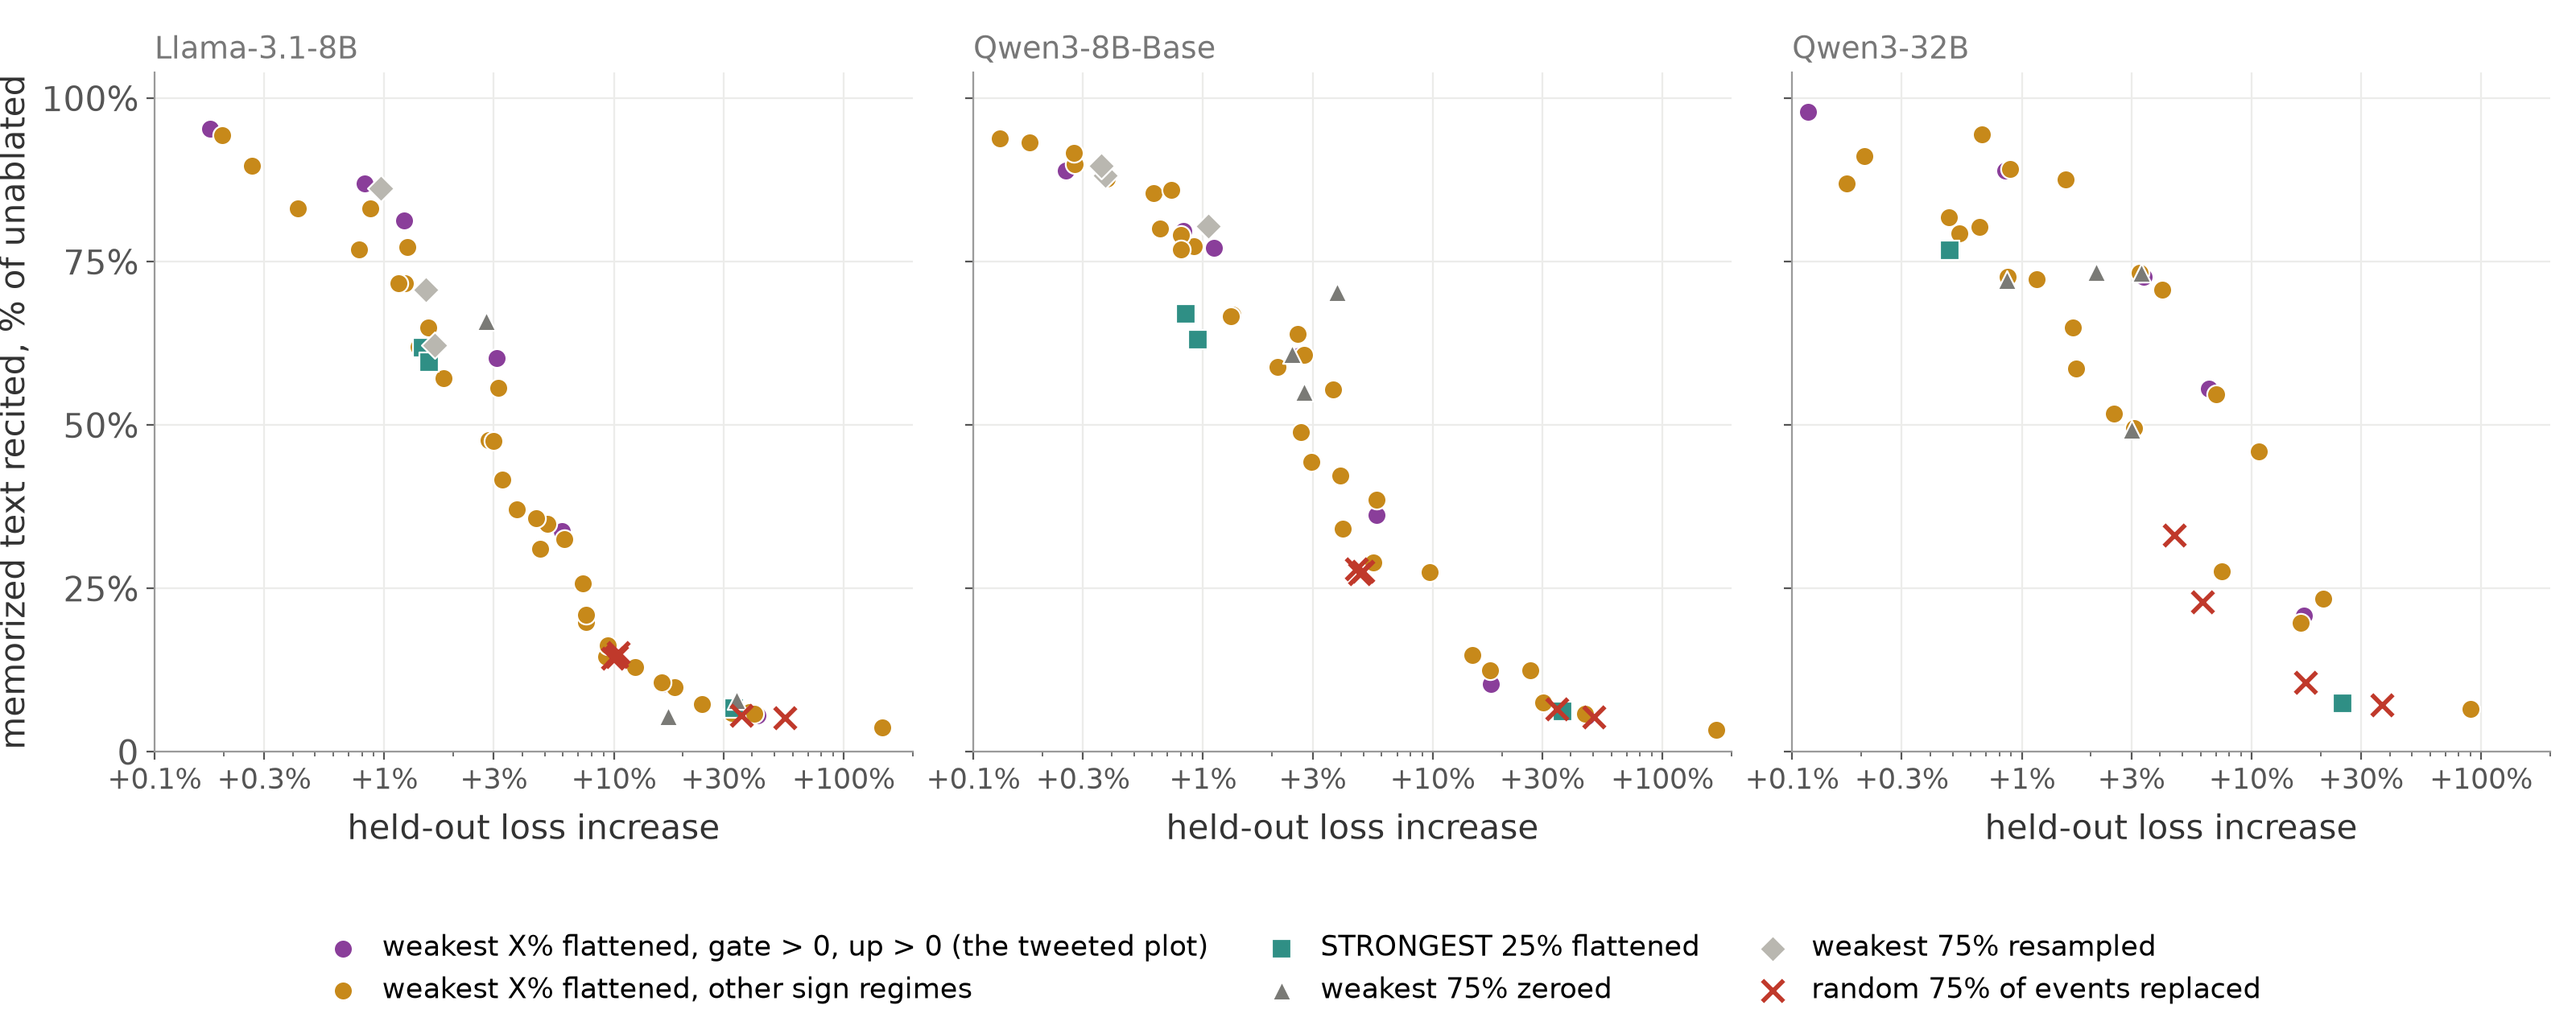
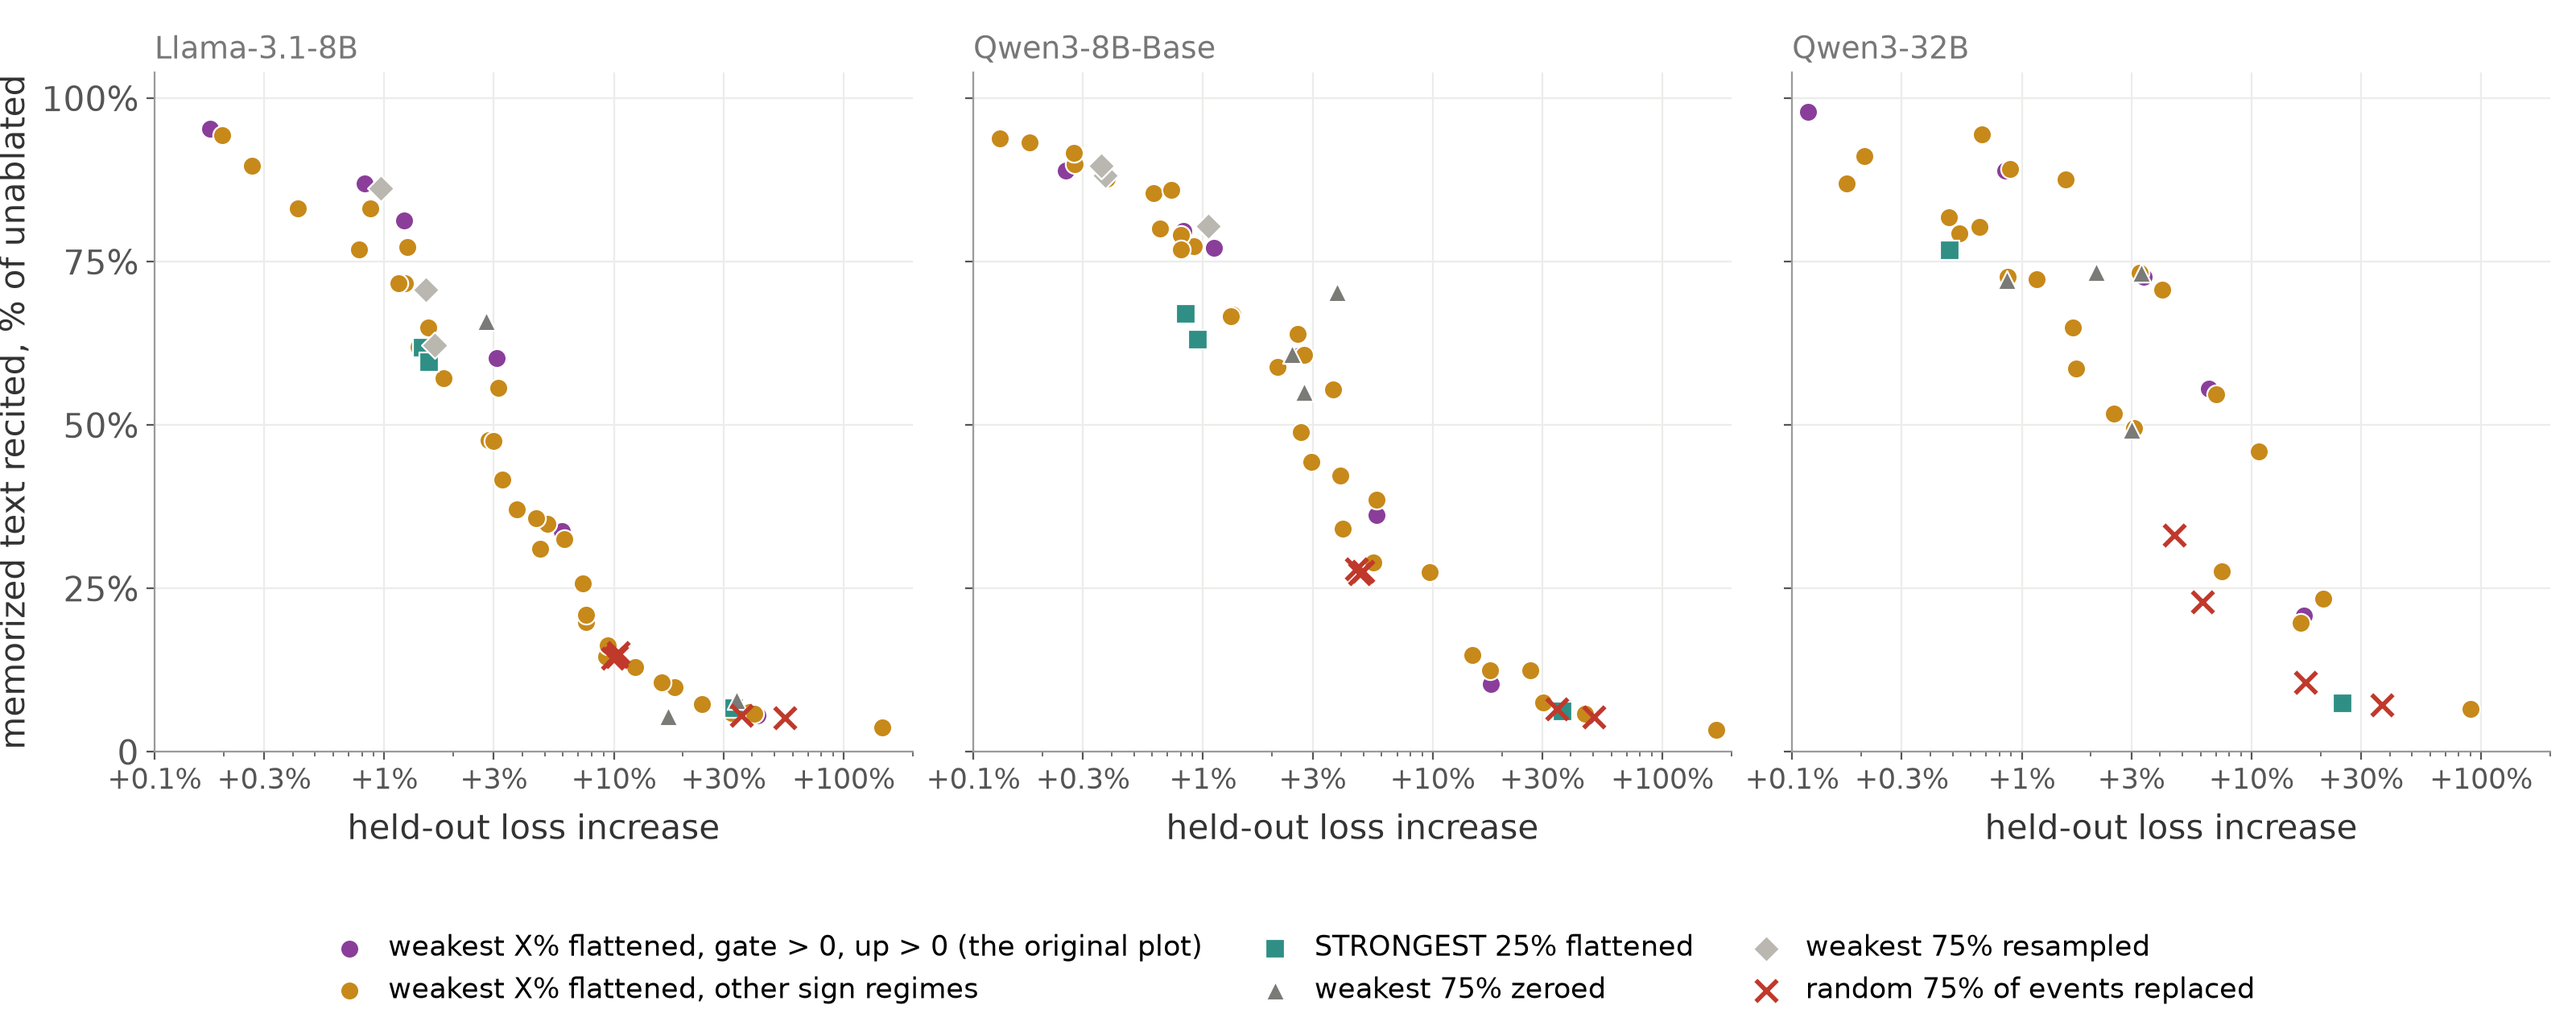
mem_vs_loss legend: 'the original plot' instead of 'the tweeted plot'

Changed region(s): [[0.5, 0.9062, 0.875, 0.9688], [0.125, 0.9062, 0.4688, 0.9688]]

diff --git a/src/fig_mem_vs_loss.py b/src/fig_mem_vs_loss.py
@@ -15,7 +15,7 @@ def kind(n):
     if n.startswith('s1_q') and n.endswith('_pp'): return 'weak_pp'
     if n.startswith('s1_q'): return 'weak_other'
     return None
-STYLE = {'weak_pp': ('#8a3e9a', 'o', 'weakest X% flattened, gate > 0, up > 0 (the tweeted plot)'),
+STYLE = {'weak_pp': ('#8a3e9a', 'o', 'weakest X% flattened, gate > 0, up > 0 (the original plot)'),
          'weak_other': ('#c7891a', 'o', 'weakest X% flattened, other sign regimes'),
          'strong': ('#2f8f85', 's', 'STRONGEST 25% flattened'),
          'zero': ('#7a7a76', '^', 'weakest 75% zeroed'),
